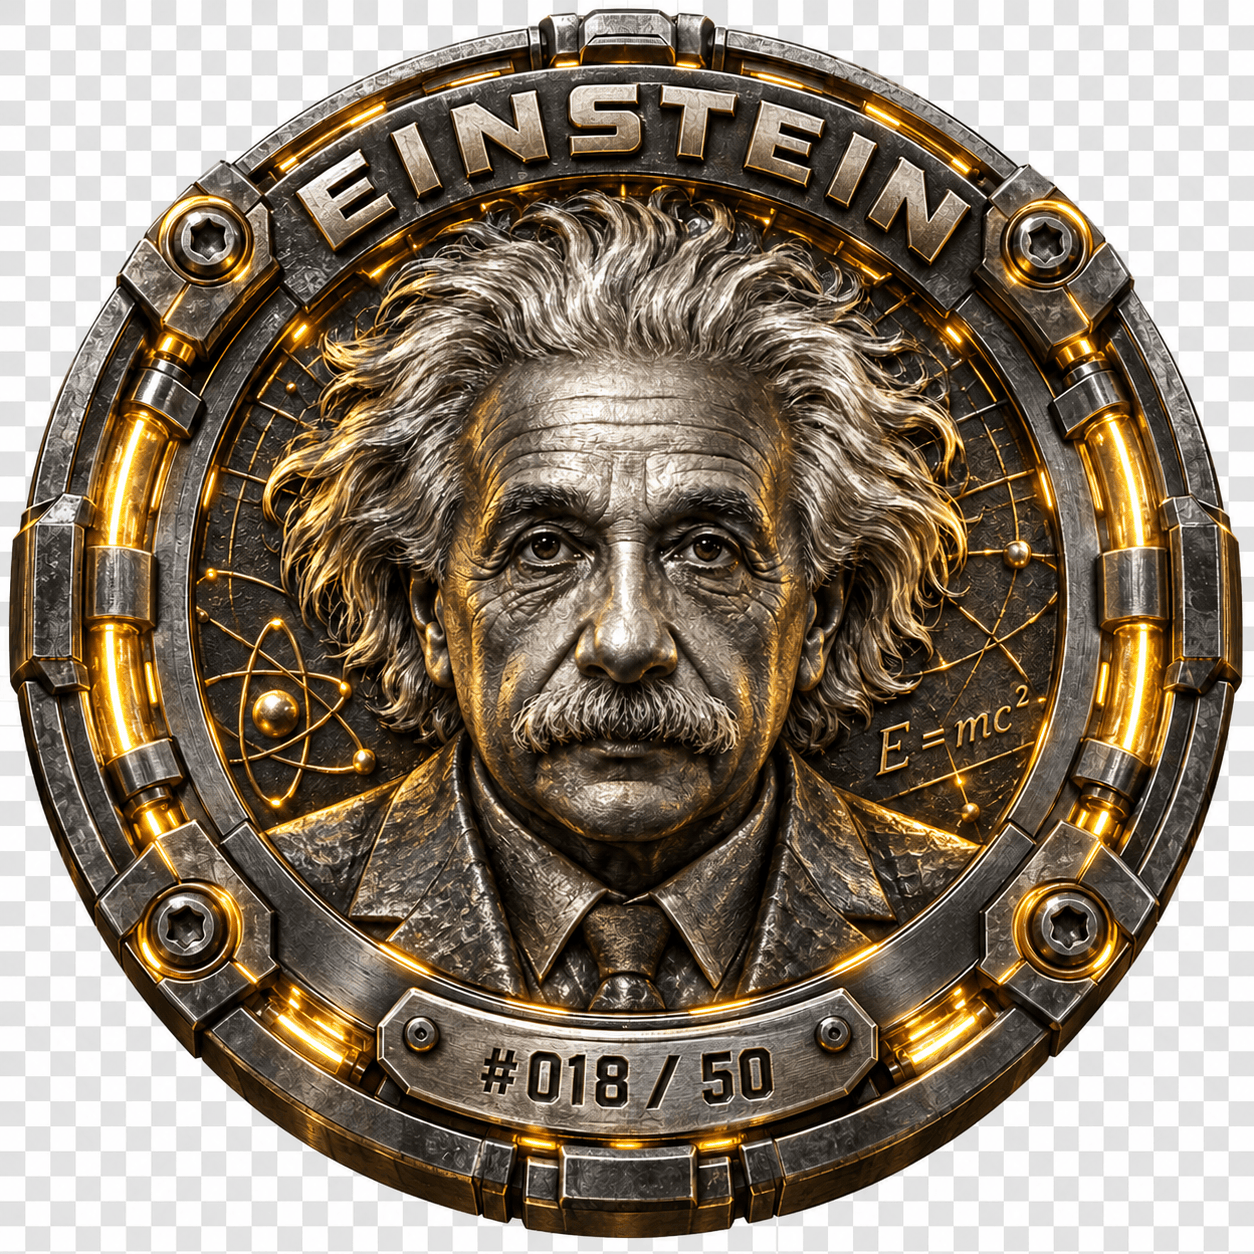
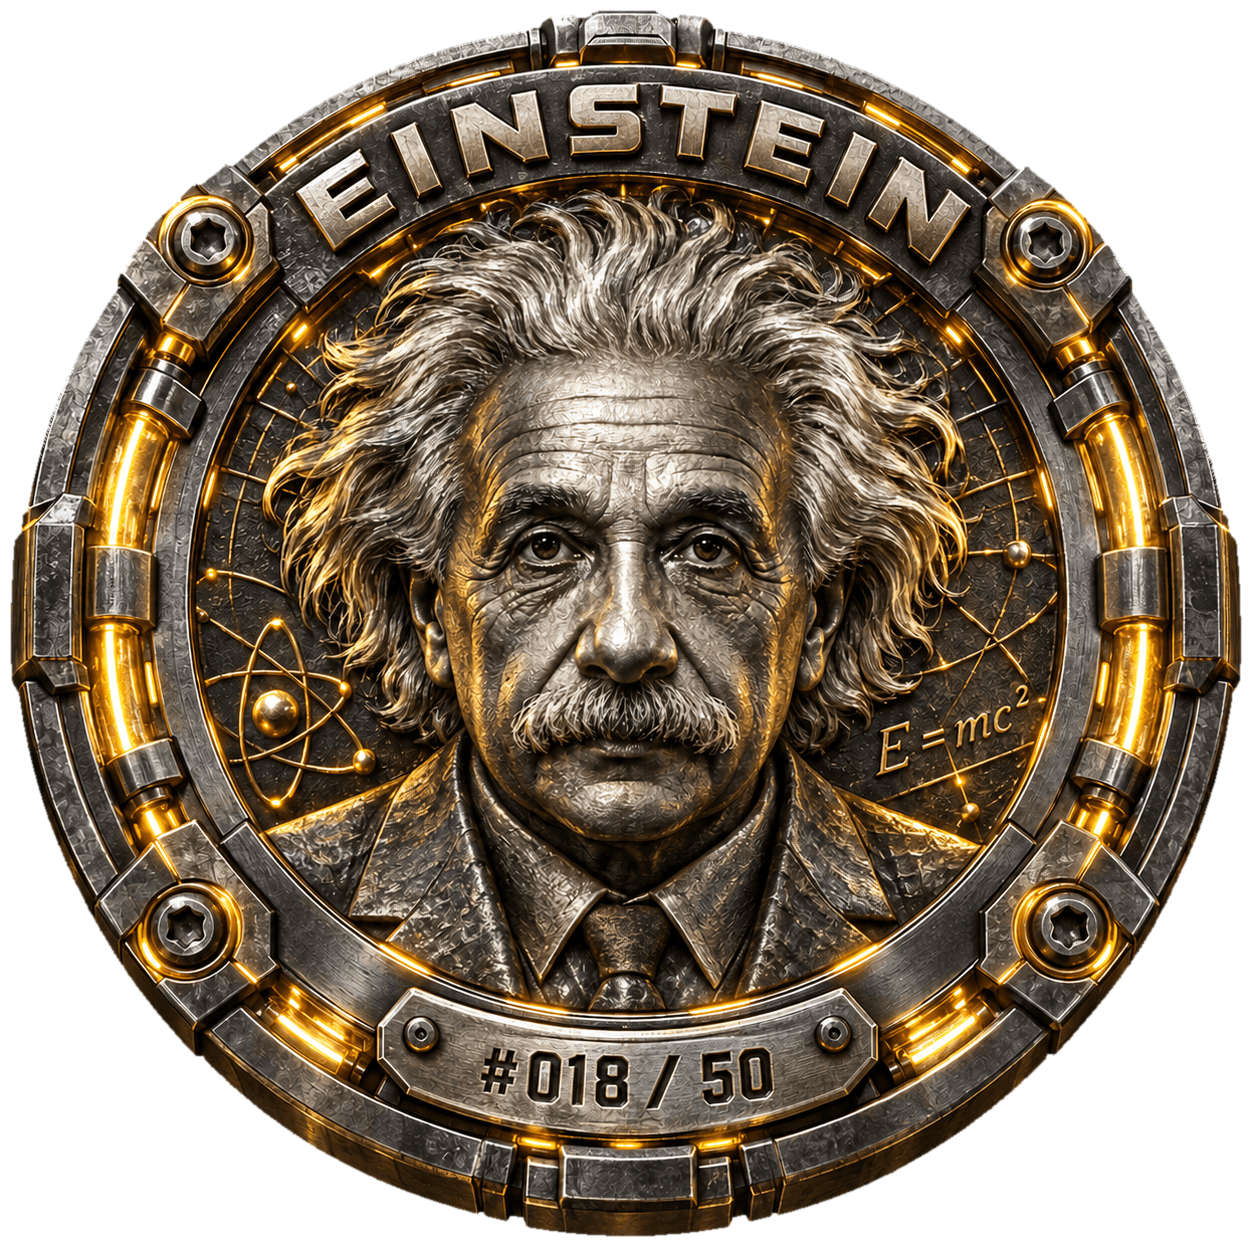
feat: add new medallion images and enhance badge display with halo effects

Changed region(s): [[0.0, 0.0, 1.0, 1.0], [0.0, 0.0, 0.4976, 0.4976], [0.0, 0.5287, 0.0311, 0.5598]]

diff --git a/src/style.css b/src/style.css
@@ -8992,6 +8992,8 @@ html.reduced-motion .ml-pulse::after { display: none; }
   --bd-accent: #22D3EE;
   --bd-metal: #A5F3FC;
   --bd-glow: rgba(6, 182, 212, .25);
+  --bd-halo: rgba(6, 182, 212, .40);
+  --bd-halo-strong: rgba(6, 182, 212, .58);
   --bd-coin: clamp(110px, 30vw, 120px);
   --bd-pedestal: calc(var(--bd-coin) + 26px);
 }
@@ -8999,11 +9001,15 @@ html.reduced-motion .ml-pulse::after { display: none; }
   --bd-accent: #FBBF24;
   --bd-metal: #FDE047;
   --bd-glow: rgba(245, 158, 11, .25);
+  --bd-halo: rgba(245, 158, 11, .35);
+  --bd-halo-strong: rgba(245, 158, 11, .55);
 }
 .badge-sheet[data-accent="frost"] {
   --bd-accent: #34D399;
   --bd-metal: #6EE7B7;
   --bd-glow: rgba(16, 185, 129, .25);
+  --bd-halo: rgba(16, 185, 129, .35);
+  --bd-halo-strong: rgba(16, 185, 129, .55);
 }
 .bd-x {
   position: absolute;
@@ -9090,7 +9096,26 @@ html.reduced-motion .ml-pulse::after { display: none; }
   height: var(--bd-coin);
   display: block;
   filter: drop-shadow(0 6px 10px rgba(0, 0, 0, .55)) drop-shadow(0 0 14px var(--bd-glow));
+  transition: transform var(--motion-fast), filter var(--motion-fast);
 }
+/* the pedestal's own ambient halo: the medallion's metal, breathing on its rim */
+.badge-ico-lg::after {
+  content: "";
+  position: absolute;
+  inset: 4px;
+  border-radius: 50%;
+  box-shadow: 0 0 24px var(--bd-halo);
+  pointer-events: none;
+  animation: bd-medal-halo 5.6s ease-in-out infinite;
+}
+@keyframes bd-medal-halo {
+  0%, 100% { box-shadow: 0 0 24px var(--bd-halo); }
+  50%      { box-shadow: 0 0 32px var(--bd-halo-strong); }
+}
+.badge-ico-lg:hover .badge-crest,
+.badge-ico-lg:active .badge-crest { transform: scale(1.05); }
+.badge-ico-lg:hover::after,
+.badge-ico-lg:active::after { animation-duration: 1.6s; }
 @keyframes bd-medallion-float {
   from { transform: translate3d(0, 1px, 0); }
   to { transform: translate3d(0, -4px, 0); }
@@ -18608,15 +18633,118 @@ html.reduced-motion .announce-cta { transition: none; }
   color: #94A3B8;
 }
 
-/* rendered medallion art is a coin on a transparent canvas: cover + a 50% clip
-   strips the anti-aliased fringe and keeps the chrome rim dead-centre */
+/* rendered medallion art is a coin on a transparent canvas: contain keeps the
+   full silhouette and native aspect at every size, and the pre-matted alpha
+   edge means no circular clip (which used to shave the top hardware boss) */
 .badge-crest-art {
-  border-radius: 50%;
-  object-fit: cover;
+  object-fit: contain;
   object-position: center;
-  clip-path: circle(50% at 50% 50%);
   -webkit-user-select: none;
   user-select: none;
+}
+
+/* ---- Genius medallion finish: one alpha-true shine overlay shared by the
+   profile shelf and the detail sheet. The halo is the honor's own metal, the
+   ::before is the metallic sweep, and each badge gets one signature motion. ---- */
+.medal-sheen { display: none; }
+
+#s-profile .badge-slot-crest .medal-sheen,
+.badge-ico-lg .medal-sheen {
+  position: absolute;
+  inset: 0;
+  z-index: 2;
+  display: block;
+  border-radius: 50%;
+  overflow: hidden;
+  pointer-events: none;
+  mix-blend-mode: screen;
+  -webkit-mask-image: var(--medal-mask);
+  mask-image: var(--medal-mask);
+  -webkit-mask-size: contain;
+  mask-size: contain;
+  -webkit-mask-position: center;
+  mask-position: center;
+  -webkit-mask-repeat: no-repeat;
+  mask-repeat: no-repeat;
+}
+.badge-ico-lg .medal-sheen {
+  width: var(--bd-coin);
+  height: var(--bd-coin);
+  margin: auto;
+  transition: transform var(--motion-fast);
+}
+.badge-ico-lg:hover .medal-sheen,
+.badge-ico-lg:active .medal-sheen { transform: scale(1.05); }
+
+#s-profile .medal-sheen::before,
+.badge-ico-lg .medal-sheen::before {
+  content: "";
+  position: absolute;
+  inset: 0;
+  border-radius: inherit;
+  background: linear-gradient(115deg,
+    rgba(255, 255, 255, 0) 34%,
+    rgba(255, 255, 255, .45) 47%,
+    rgba(255, 255, 255, .12) 53%,
+    rgba(255, 255, 255, 0) 66%);
+  background-size: 280% 100%;
+  background-position: 160% 0;
+  opacity: 0;
+}
+
+@keyframes sheen {
+  0%   { background-position: 160% 0; opacity: 0; }
+  12%  { opacity: .9; }
+  70%  { opacity: .78; }
+  100% { background-position: -60% 0; opacity: 0; }
+}
+
+/* Einstein: a warm gleam orbiting the metallic relief */
+.medal-sheen[data-badge="einstein_singularity"]::after {
+  content: "";
+  position: absolute;
+  inset: -22%;
+  border-radius: 50%;
+  background: conic-gradient(from 0deg,
+    rgba(255, 220, 130, 0) 0deg 264deg,
+    rgba(255, 220, 130, .38) 288deg,
+    rgba(255, 246, 218, .66) 300deg,
+    rgba(255, 220, 130, .18) 314deg,
+    rgba(255, 220, 130, 0) 334deg 360deg);
+  opacity: .8;
+  animation: medal-gleam-orbit 9s linear infinite;
+}
+
+/* Churchill: a cold, high-contrast reflection turning on the titanium rim */
+.medal-sheen[data-badge="churchill_bastion"]::after {
+  content: "";
+  position: absolute;
+  inset: 0;
+  border-radius: 50%;
+  background: conic-gradient(from 210deg,
+    rgba(236, 254, 255, .9) 0deg,
+    rgba(236, 254, 255, 0) 44deg 150deg,
+    rgba(34, 211, 238, .66) 196deg,
+    rgba(34, 211, 238, 0) 230deg 296deg,
+    rgba(255, 255, 255, .74) 322deg,
+    rgba(255, 255, 255, 0) 350deg 360deg);
+  -webkit-mask: radial-gradient(farthest-side, transparent calc(100% - 2px), #000 calc(100% - 1px));
+  mask: radial-gradient(farthest-side, transparent calc(100% - 2px), #000 calc(100% - 1px));
+  opacity: .92;
+  animation: medal-edge-turn 13s linear infinite;
+}
+
+@keyframes medal-gleam-orbit { to { transform: rotate(1turn); } }
+@keyframes medal-edge-turn { to { transform: rotate(-1turn); } }
+
+#s-profile .badge-slot.is-locked .medal-sheen { display: none; }
+
+#s-profile .badge-slot.is-unlocked:hover .medal-sheen::before,
+#s-profile .badge-slot.is-unlocked:focus-visible .medal-sheen::before,
+#s-profile .badge-slot.is-unlocked:active .medal-sheen::before,
+.badge-ico-lg:hover .medal-sheen::before,
+.badge-ico-lg:active .medal-sheen::before {
+  animation: sheen 1.15s ease-in-out infinite;
 }
 
 /* the equipped seal beside the player's name wears the same crest */
@@ -19768,8 +19896,23 @@ html.reduced-motion #s-profile .pf-chip { animation: none; transition: none; }
 #s-profile .badge-slot[data-accent="quantum"]  { --badge-aura: 245, 158, 11; --badge-ink: #FDE047; }
 #s-profile .badge-slot[data-accent="frost"]    { --badge-aura: 16, 185, 129; --badge-ink: #6EE7B7; }
 
+/* each honor's own metal, at the exact ambient glow its medallion carries */
+#s-profile .badge-slot[data-badge="churchill_bastion"] {
+  --medal-halo: rgba(6, 182, 212, .40);
+  --medal-halo-strong: rgba(6, 182, 212, .58);
+}
+#s-profile .badge-slot[data-badge="einstein_singularity"] {
+  --medal-halo: rgba(245, 158, 11, .35);
+  --medal-halo-strong: rgba(245, 158, 11, .55);
+}
+#s-profile .badge-slot[data-badge="heisenberg_formula"] {
+  --medal-halo: rgba(16, 185, 129, .35);
+  --medal-halo-strong: rgba(16, 185, 129, .55);
+}
+
 #s-profile .badge-slot:hover:not(:active) { transform: translateY(-2px); }
-#s-profile .badge-slot:active { transform: scale(.96); }
+#s-profile .badge-slot.is-unlocked:active { transform: translateY(0) scale(1); }
+#s-profile .badge-slot.is-locked:active { transform: scale(.96); }
 #s-profile .badge-slot:focus-visible { outline: 3px solid var(--brand-2); outline-offset: 2px; }
 
 /* equipped: a hairline metal rim and one inner shadow — no neon cage */
@@ -19787,6 +19930,7 @@ html.reduced-motion #s-profile .pf-chip { animation: none; transition: none; }
     inset 0 0 16px -8px rgba(var(--badge-aura), .3);
 }
 #s-profile .badge-slot.is-equipped:active { transform: translateY(0) scale(.96); }
+#s-profile .badge-slot.is-unlocked.is-equipped:active { transform: translateY(0) scale(1); }
 #s-profile .badge-slot.is-equipped:hover:not(:active) { transform: translateY(-2px); }
 
 /* locked: dark matte clay — dimmed, but the serial counter stays legible */
@@ -19814,6 +19958,16 @@ html.reduced-motion #s-profile .pf-chip { animation: none; transition: none; }
   height: 48px;
   display: grid;
   place-items: center;
+  border-radius: 50%;
+  transition: transform var(--motion-fast), box-shadow var(--motion-fast);
+}
+#s-profile .badge-slot.is-unlocked .badge-slot-crest {
+  box-shadow: 0 0 24px var(--medal-halo);
+  animation: medal-halo 5.6s ease-in-out infinite;
+}
+@keyframes medal-halo {
+  0%, 100% { box-shadow: 0 0 24px var(--medal-halo); }
+  50%      { box-shadow: 0 0 30px var(--medal-halo-strong); }
 }
 #s-profile .badge-slot-crest .badge-crest {
   width: 48px;
@@ -19822,8 +19976,17 @@ html.reduced-motion #s-profile .pf-chip { animation: none; transition: none; }
   filter: drop-shadow(0 3px 4px rgba(0, 0, 0, .6));
   transition: transform var(--motion-fast), filter var(--motion-fast);
 }
+#s-profile .badge-slot.is-unlocked:hover:not(:active) .badge-slot-crest,
+#s-profile .badge-slot.is-unlocked:focus-visible .badge-slot-crest,
+#s-profile .badge-slot.is-unlocked:active .badge-slot-crest {
+  transform: scale(1.05);
+}
+#s-profile .badge-slot.is-unlocked:hover .badge-slot-crest,
+#s-profile .badge-slot.is-unlocked:focus-visible .badge-slot-crest,
+#s-profile .badge-slot.is-unlocked:active .badge-slot-crest {
+  animation-duration: 1.6s;
+}
 #s-profile .badge-slot.is-unlocked:hover:not(:active) .badge-slot-crest .badge-crest {
-  transform: translateY(-1px) scale(1.03);
   filter: drop-shadow(0 0 8px rgba(var(--badge-aura), .5)) drop-shadow(0 3px 4px rgba(0, 0, 0, .6));
 }
 #s-profile .badge-slot.is-equipped .badge-slot-crest .badge-crest {
@@ -20120,10 +20283,16 @@ html.reduced-motion #s-profile .pf-chip { animation: none; transition: none; }
 }
 
 html.reduced-motion #s-profile .badge-slot,
+html.reduced-motion #s-profile .badge-slot-crest,
 html.reduced-motion #s-profile .badge-slot-crest .badge-crest,
 html.reduced-motion #s-profile .pf-equipped-badge,
 html.reduced-motion #s-profile .pf-badge-note,
 html.reduced-motion #s-profile .pf-badge-note::before { transition: none; }
+html.reduced-motion #s-profile .badge-slot-crest,
+html.reduced-motion .badge-ico-lg::after,
+html.reduced-motion .badge-ico-lg .badge-crest,
+html.reduced-motion .medal-sheen::before,
+html.reduced-motion .medal-sheen::after { animation: none; }
 html.reduced-motion #s-profile .badge-slot.is-spotlit::after { animation: none; opacity: 1; }
 html.reduced-motion #s-profile .badge-slot.is-minting .badge-slot-serial,
 html.reduced-motion .badge-card.is-minting .badge-card-ser,

diff --git a/src/badges.ts b/src/badges.ts
@@ -26,6 +26,8 @@ import { cacheBadgeClaim, cacheBadgeSupply, profile, type EditionClaim, type Edi
 import { myTiq } from './matchmaking';
 import { workerUrl } from './adminApi';
 import { tgInitData, tgUser } from './telegram';
+import einsteinMedallion from './assets/images/einstein.png';
+import churchillMedallion from './assets/images/Futuristic Churchill Steel Medallion.png';
 import heisenbergMedallion from './assets/images/Heisenberg Chrome Medallion.png';
 
 export type BadgeAccent = 'titanium' | 'quantum' | 'frost';
@@ -64,6 +66,7 @@ export const GENIUS_TRIAD: readonly BadgeDef[] = [
     lore: 'Never surrender. The wall is not a tactic; it is a promise.',
     criteria: 'Reach a 3-win streak. High-resilience runs and clutch comebacks forge the Bastion.',
     accent: 'titanium',
+    art: churchillMedallion,
     cap: 100,
   },
   {
@@ -76,6 +79,7 @@ export const GENIUS_TRIAD: readonly BadgeDef[] = [
     lore: 'The board is not a race. It is a proof.',
     criteria: 'Bank 1,500 Tactical IQ. Pure calculation bends the board into a single answer.',
     accent: 'quantum',
+    art: einsteinMedallion,
     cap: 50,
   },
   {
@@ -105,7 +109,9 @@ export const badgeById = (id: string | null | undefined): BadgeDef | null =>
  */
 export function badgeCrestHtml(def: BadgeDef, className = 'badge-crest'): string {
   if (def.art) {
-    return `<img class="${className} badge-crest-art" src="${def.art}" alt="" aria-hidden="true" draggable="false" decoding="async" />`;
+    return `<img class="${className} badge-crest-art" src="${def.art}" alt="" aria-hidden="true" draggable="false" decoding="async"`
+      + ` data-badge="${def.id}" data-accent="${def.accent}" />`
+      + `<span class="medal-sheen" data-badge="${def.id}" style="--medal-mask:url('${def.art}')" aria-hidden="true"></span>`;
   }
   return `<svg class="${className}" viewBox="0 0 56 56" aria-hidden="true">`
     + `<use href="#i-crest-${def.accent}" /></svg>`;

diff --git a/src/menu.ts b/src/menu.ts
@@ -1726,7 +1726,11 @@ export function createMenu(api: MenuApi): Menu {
     if (!def || !sheet) return;
     badgeDraft = id;
     const crest = document.getElementById('badge-sheet-ico-wrap');
-    if (crest) crest.innerHTML = badgeCrestHtml(def);
+    if (crest) {
+      crest.dataset.badge = def.id;
+      crest.dataset.accent = def.accent;
+      crest.innerHTML = badgeCrestHtml(def);
+    }
     paintBadgeSheet(id);
     void refreshBadgeEditions();
     api.sheets.open(sheet);
